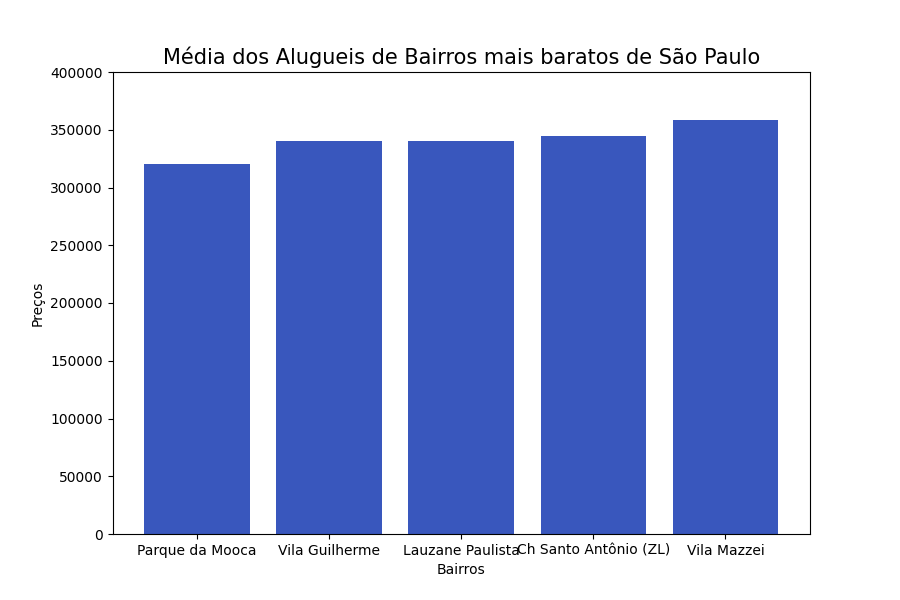
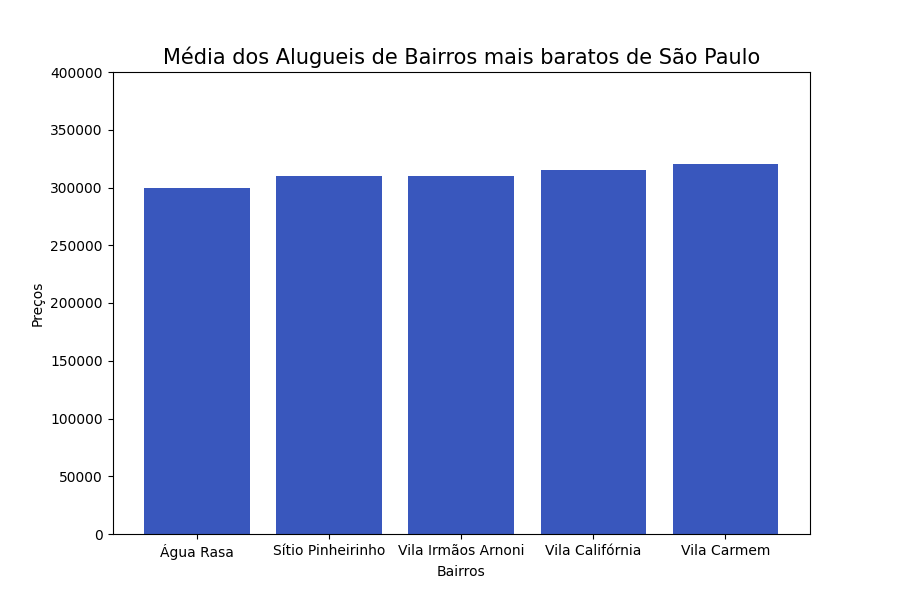
aumentando scraping

Changed region(s): [[0.1556, 0.21, 0.7156, 0.33], [0.1556, 0.9, 0.8711, 0.96], [0.7467, 0.18, 0.8711, 0.3]]

diff --git a/cards/views.py b/cards/views.py
@@ -2,8 +2,8 @@ from django.shortcuts import render, redirect
 from .models import Card
 from webscraping import *
 
-pegar_paginas(4,'card-body')
-lista=pegar_apartamentos(4,'card-body')
+pegar_paginas(30,'card-body')
+lista=pegar_apartamentos(30,'card-body')
 dados = data(lista)
 bairros_mais_baratos, precos_mais_baratos = bairros_baratos(dados)
 plota_bairros_baratos(bairros_mais_baratos,precos_mais_baratos)

diff --git a/webscraping.py b/webscraping.py
@@ -163,6 +163,6 @@ def plota_area_versus_preco(df):
     plt.savefig('C:\\Users\\ricar\\OneDrive - Insper - Institudo de Ensino e Pesquisa\\Quarto Semestre\\TECWEB\\PROJETO3\\projeto-3-tiringa_serra_talhada\\cards\\static\\cards\\img\\ala2.png')
     
 
-lista_imoveis=run(4,'card-body')
-lista_bairros = dataframe(4,'card-body')
+lista_imoveis=run(30,'card-body')
+lista_bairros = dataframe(30,'card-body')
 
